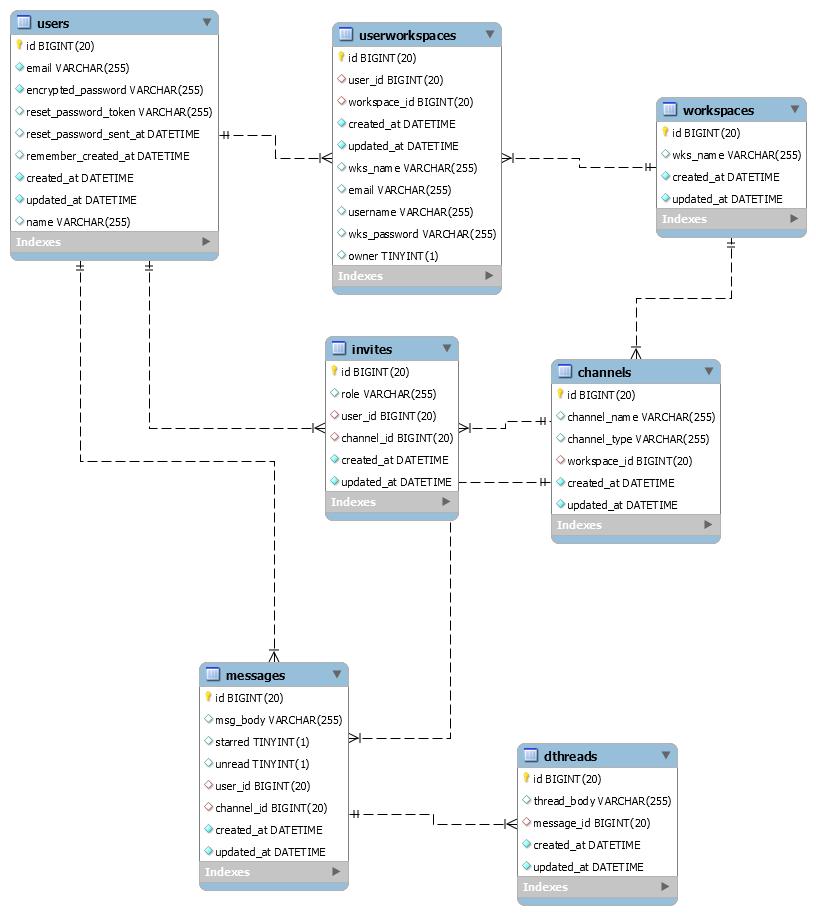
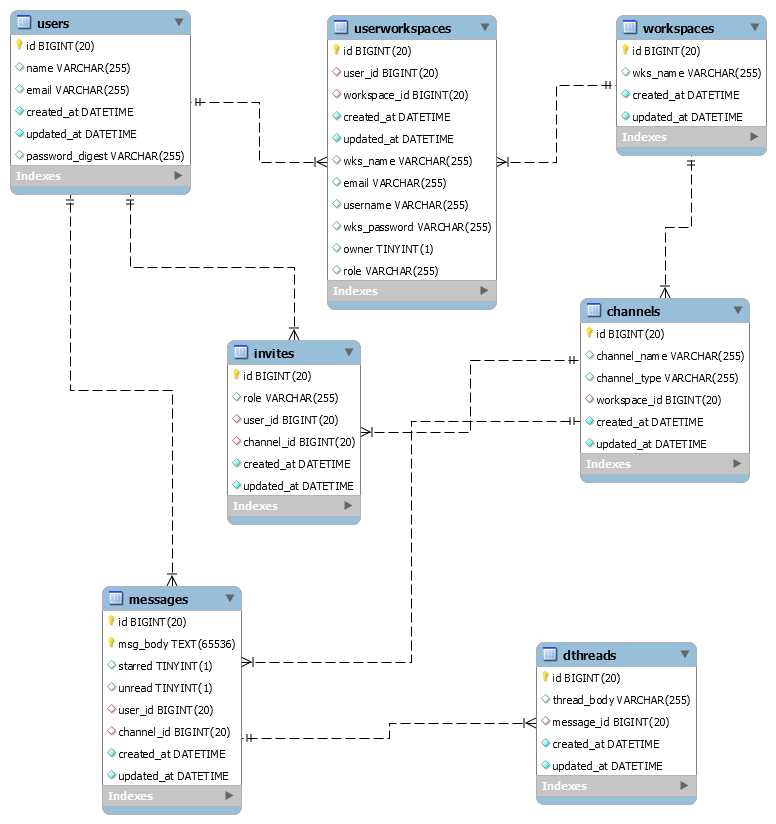
update msg type

diff --git a/db/schema.rb b/db/schema.rb
@@ -10,7 +10,7 @@
 #
 # It's strongly recommended that you check this file into your version control system.
 
-ActiveRecord::Schema.define(version: 2019_07_22_090735) do
+ActiveRecord::Schema.define(version: 2019_07_31_071951) do
 
   create_table "channels", options: "ENGINE=InnoDB DEFAULT CHARSET=utf8", force: :cascade do |t|
     t.string "channel_name"
@@ -40,13 +40,13 @@ ActiveRecord::Schema.define(version: 2019_07_22_090735) do
   end
 
   create_table "messages", options: "ENGINE=InnoDB DEFAULT CHARSET=utf8", force: :cascade do |t|
-    t.string "msg_body"
     t.boolean "starred"
     t.boolean "unread"
     t.bigint "user_id"
     t.bigint "channel_id"
     t.datetime "created_at", null: false
     t.datetime "updated_at", null: false
+    t.text "msg_body"
     t.index ["channel_id"], name: "index_messages_on_channel_id"
     t.index ["user_id"], name: "index_messages_on_user_id"
   end

diff --git a/db/migrate/20190731071821_remove_msg_body_from_message.rb b/db/migrate/20190731071821_remove_msg_body_from_message.rb
@@ -1,0 +1,5 @@
+class RemoveMsgBodyFromMessage < ActiveRecord::Migration[5.2]
+  def change
+    remove_column :messages, :msg_body, :string
+  end
+end

diff --git a/db/migrate/20190731071951_add_msg_body_to_message.rb b/db/migrate/20190731071951_add_msg_body_to_message.rb
@@ -1,0 +1,5 @@
+class AddMsgBodyToMessage < ActiveRecord::Migration[5.2]
+  def change
+    add_column :messages, :msg_body, :text
+  end
+end
